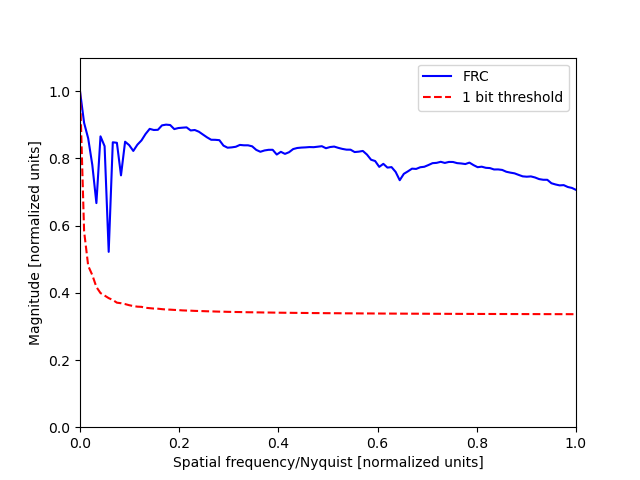
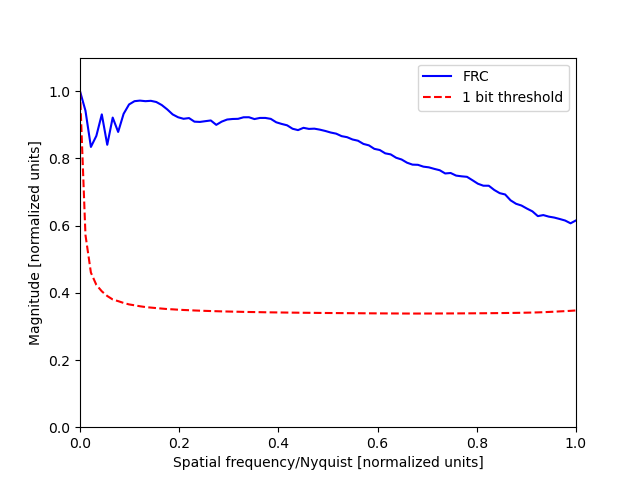
Refactoring

diff --git a/compute_fourier_corr.py b/compute_fourier_corr.py
@@ -1,0 +1,13 @@
+from ptypy.utils.metrics import fouriershellcorrelation, fourierringcorrelation, frc_plot
+import numpy as np
+
+g_truth = np.load("/home/kpv14943/ptypy/rmap_242_glass.npy")[30:-30, 60:-60, 60:-60]
+vol_joint = np.load("/home/kpv14943/ptypy/vol_200iters_subs_half.npy")[30:-30, 60:-60, 60:-60]
+vol_conv = np.load("/home/kpv14943/ptypy/overall_vol_conv_REAL_400_subsampled_half.npy")[30:-30, 60:-60, 60:-60]
+
+#FSC, T, fn = fourierringcorrelation(np.real(g_truth)[:, 100, :], np.real(vol_joint)[:, 100, :])
+FSC, T, fn = fouriershellcorrelation(np.real(g_truth), np.real(vol_joint))
+frc_plot(FSC, T, fn, 'z_joint_subs_half.png')
+
+FSC, T, fn = fouriershellcorrelation(np.real(g_truth), np.real(vol_conv))
+frc_plot(FSC, T, fn, 'z_conv_subs_half.png')

diff --git a/ptypy/utils/metrics.py b/ptypy/utils/metrics.py
@@ -542,11 +542,3 @@ def frc_plot(FRC, T, fn, plot_name):
     return None
 
 
-g_truth = np.load("/home/kpv14943/ptypy/rmap_242_glass.npy")
-vol_joint = np.load("/home/kpv14943/ptypy/vol_200iters_subs_half.npy")
-vol_conv = np.load("/home/kpv14943/ptypy/overall_vol_conv_REAL_400_subsampled_half.npy")
-
-#FSC, T, fn = fourierringcorrelation(np.real(g_truth)[:, 100, :], np.real(vol_joint)[:, 100, :])
-FSC, T, fn = fouriershellcorrelation(np.real(g_truth), np.real(vol_joint))
-
-frc_plot(FSC, T, fn, 'z_joint_subs_half.png')
